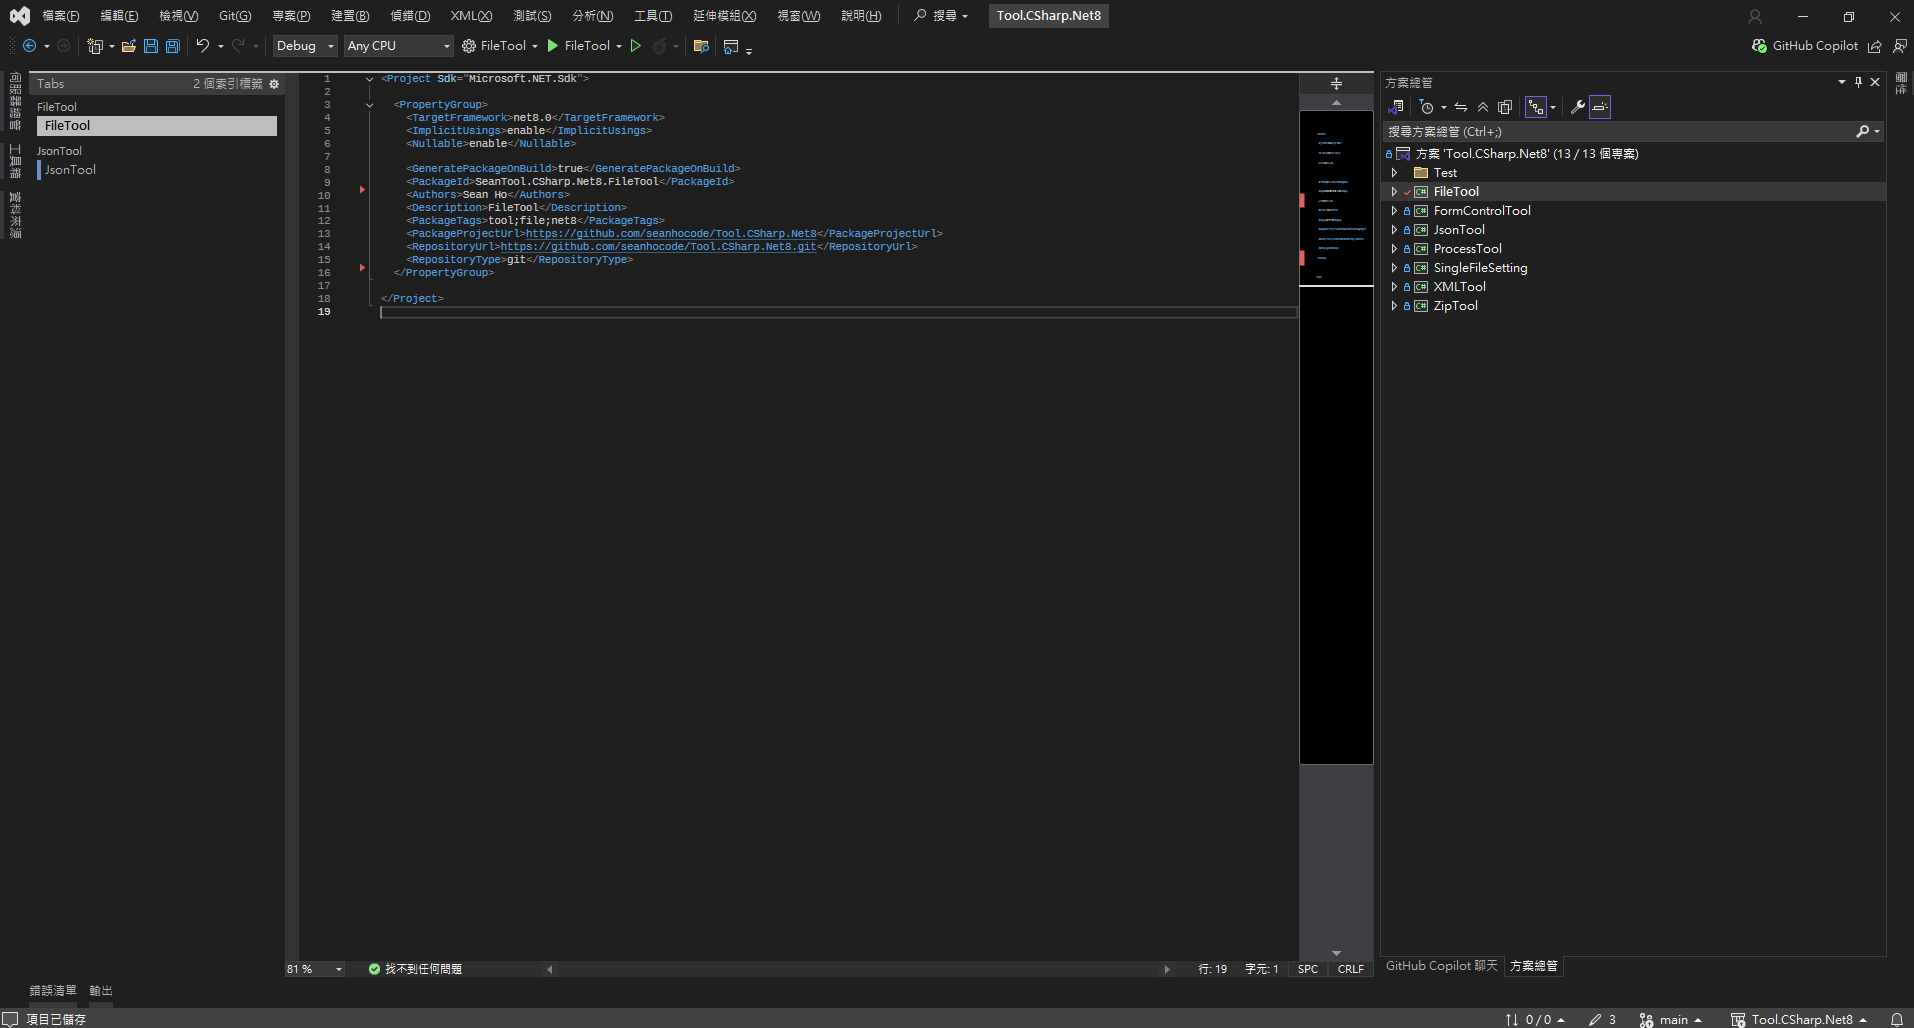
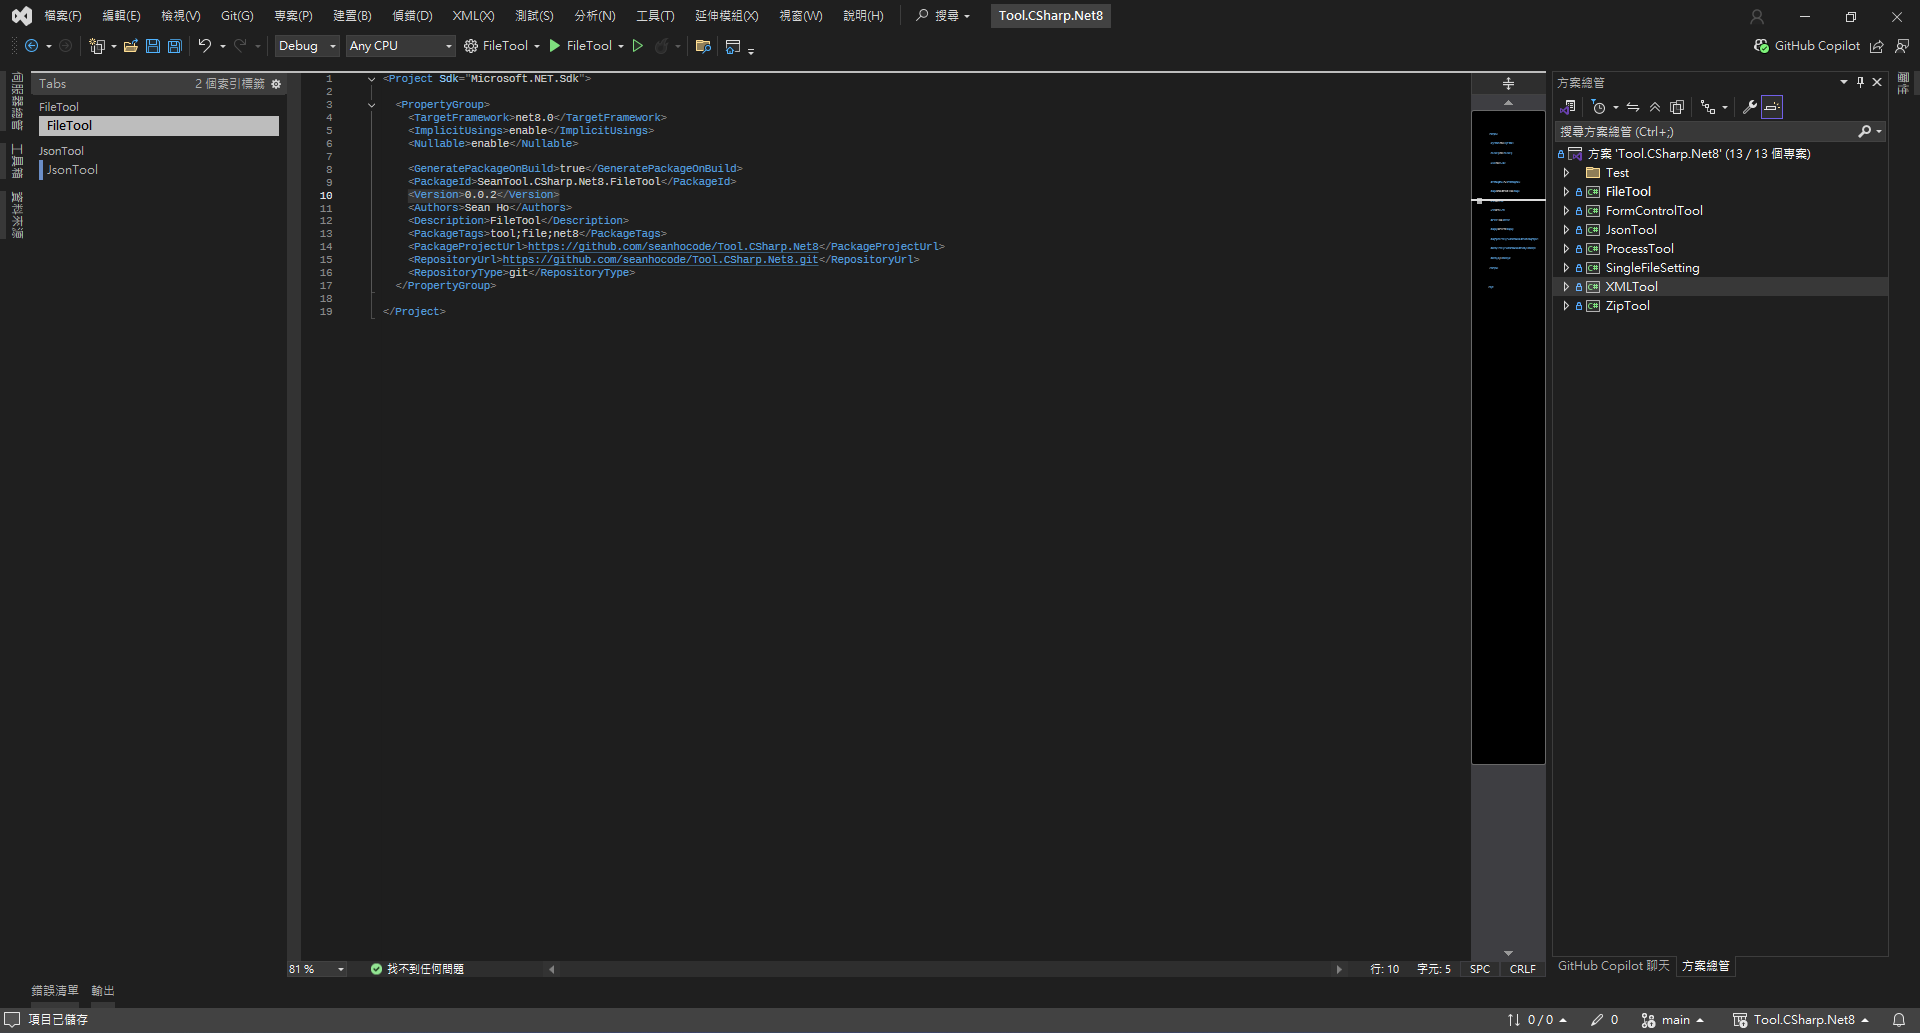
[Doc] 調整建置說明文件

diff --git a/Doc/CreateNewTool.md b/Doc/CreateNewTool.md
@@ -11,6 +11,7 @@
     ```csproj=
         <GeneratePackageOnBuild>true</GeneratePackageOnBuild>
         <PackageId>SeanTool.CSharp.Net8.FileTool</PackageId>
+        <Version>0.0.2</Version>
         <Authors>Sean Ho</Authors>
         <Description>FileTool</Description>
         <PackageTags>tool;file;net8</PackageTags>
@@ -22,4 +23,5 @@
 4. 設定自動部屬
     - 將新Tool名稱加入``.github\workflows\NugetPublish.yml``的``INCLUDE_PROJECTS``
     - ![](./image/CreateNewTool/ymlSetting.png)
-5. 命名空間設定為``SeanTool.Tools``
+5. 命名空間設定為``SeanTool.CSharp.Net8``
+    - ![](./image/CreateNewTool/NameSpaceSetting.png)
